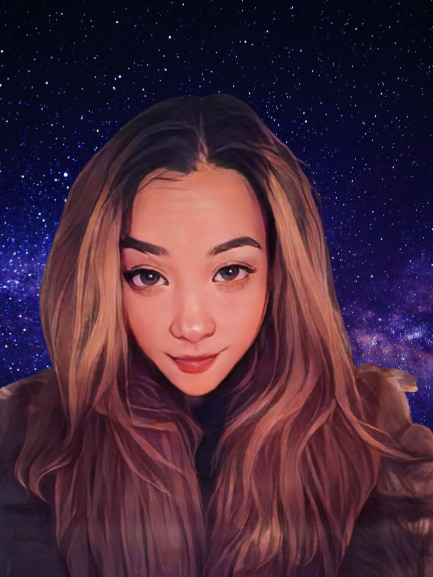
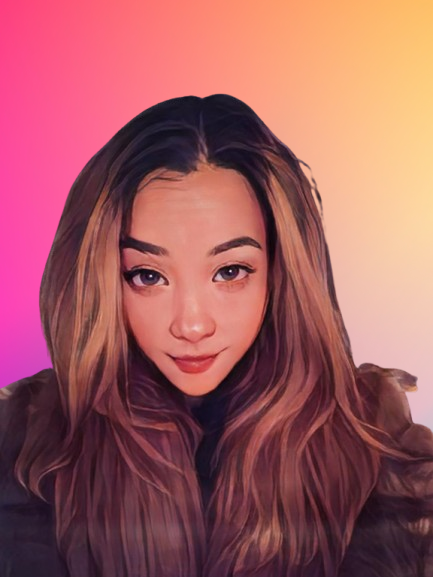
new image, bigger fonts

diff --git a/frontend/src/components/Hero.jsx b/frontend/src/components/Hero.jsx
@@ -2,11 +2,11 @@ const Hero = () => {
   return (
     <section
       id="hero"
-      className="flex flex-col justify-center items-center text-center text-black pt-16"
+      className="flex flex-col justify-center items-center text-center text-black text-xl font-semibold pt-16"
     >
       <div className="w-screen p-6 flex flex-col justify-center items-center">
         <h3 className="text-3xl text-black">Hi, and welcome to my Portfolio</h3>
-        <div className="text-black mt-4 max-w-2xl">
+        <div className="text-black mt-4 max-w-4xl">
           <p className="mb-4">
             I&apos;m Linh, Free-time Software Developer and professional Project
             Powerhouse. Love swimming in the ocean, vietnamese street food,

diff --git a/frontend/src/components/Navbar.jsx b/frontend/src/components/Navbar.jsx
@@ -47,8 +47,8 @@ const Navbar = () => {
                 onClick={closeMenu}
               >
                 <div>
-                  <span className="block text-4xl">LINH</span>
-                  <span className="block text-4xl">NGUYEN</span>
+                  <span className="block text-4xl font-semibold">LINH</span>
+                  <span className="block text-4xl font-semibold">NGUYEN</span>
                 </div>
               </Link>
             </li>

diff --git a/frontend/src/components/Projects.jsx b/frontend/src/components/Projects.jsx
@@ -36,7 +36,7 @@ const Projects = () => {
   };
 
   return (
-    <section id="gallery" className="p-10">
+    <section id="gallery" className="p-10 mt-14">
       <h2 className="text-3xl text-center mb-5">Gallery</h2>
       <div className="grid grid-cols-1 md:grid-cols-2 lg:grid-cols-3 gap-5">
         {projects.map((project) => (

diff --git a/frontend/src/compiled.css b/frontend/src/compiled.css
@@ -764,6 +764,10 @@ canvas {
   margin-top: 2.5rem;
 }
 
+.mt-14{
+  margin-top: 3.5rem;
+}
+
 .mt-16{
   margin-top: 4rem;
 }
@@ -875,8 +879,8 @@ canvas {
   width: 100vw;
 }
 
-.max-w-2xl{
-  max-width: 42rem;
+.max-w-4xl{
+  max-width: 56rem;
 }
 
 .max-w-full{
